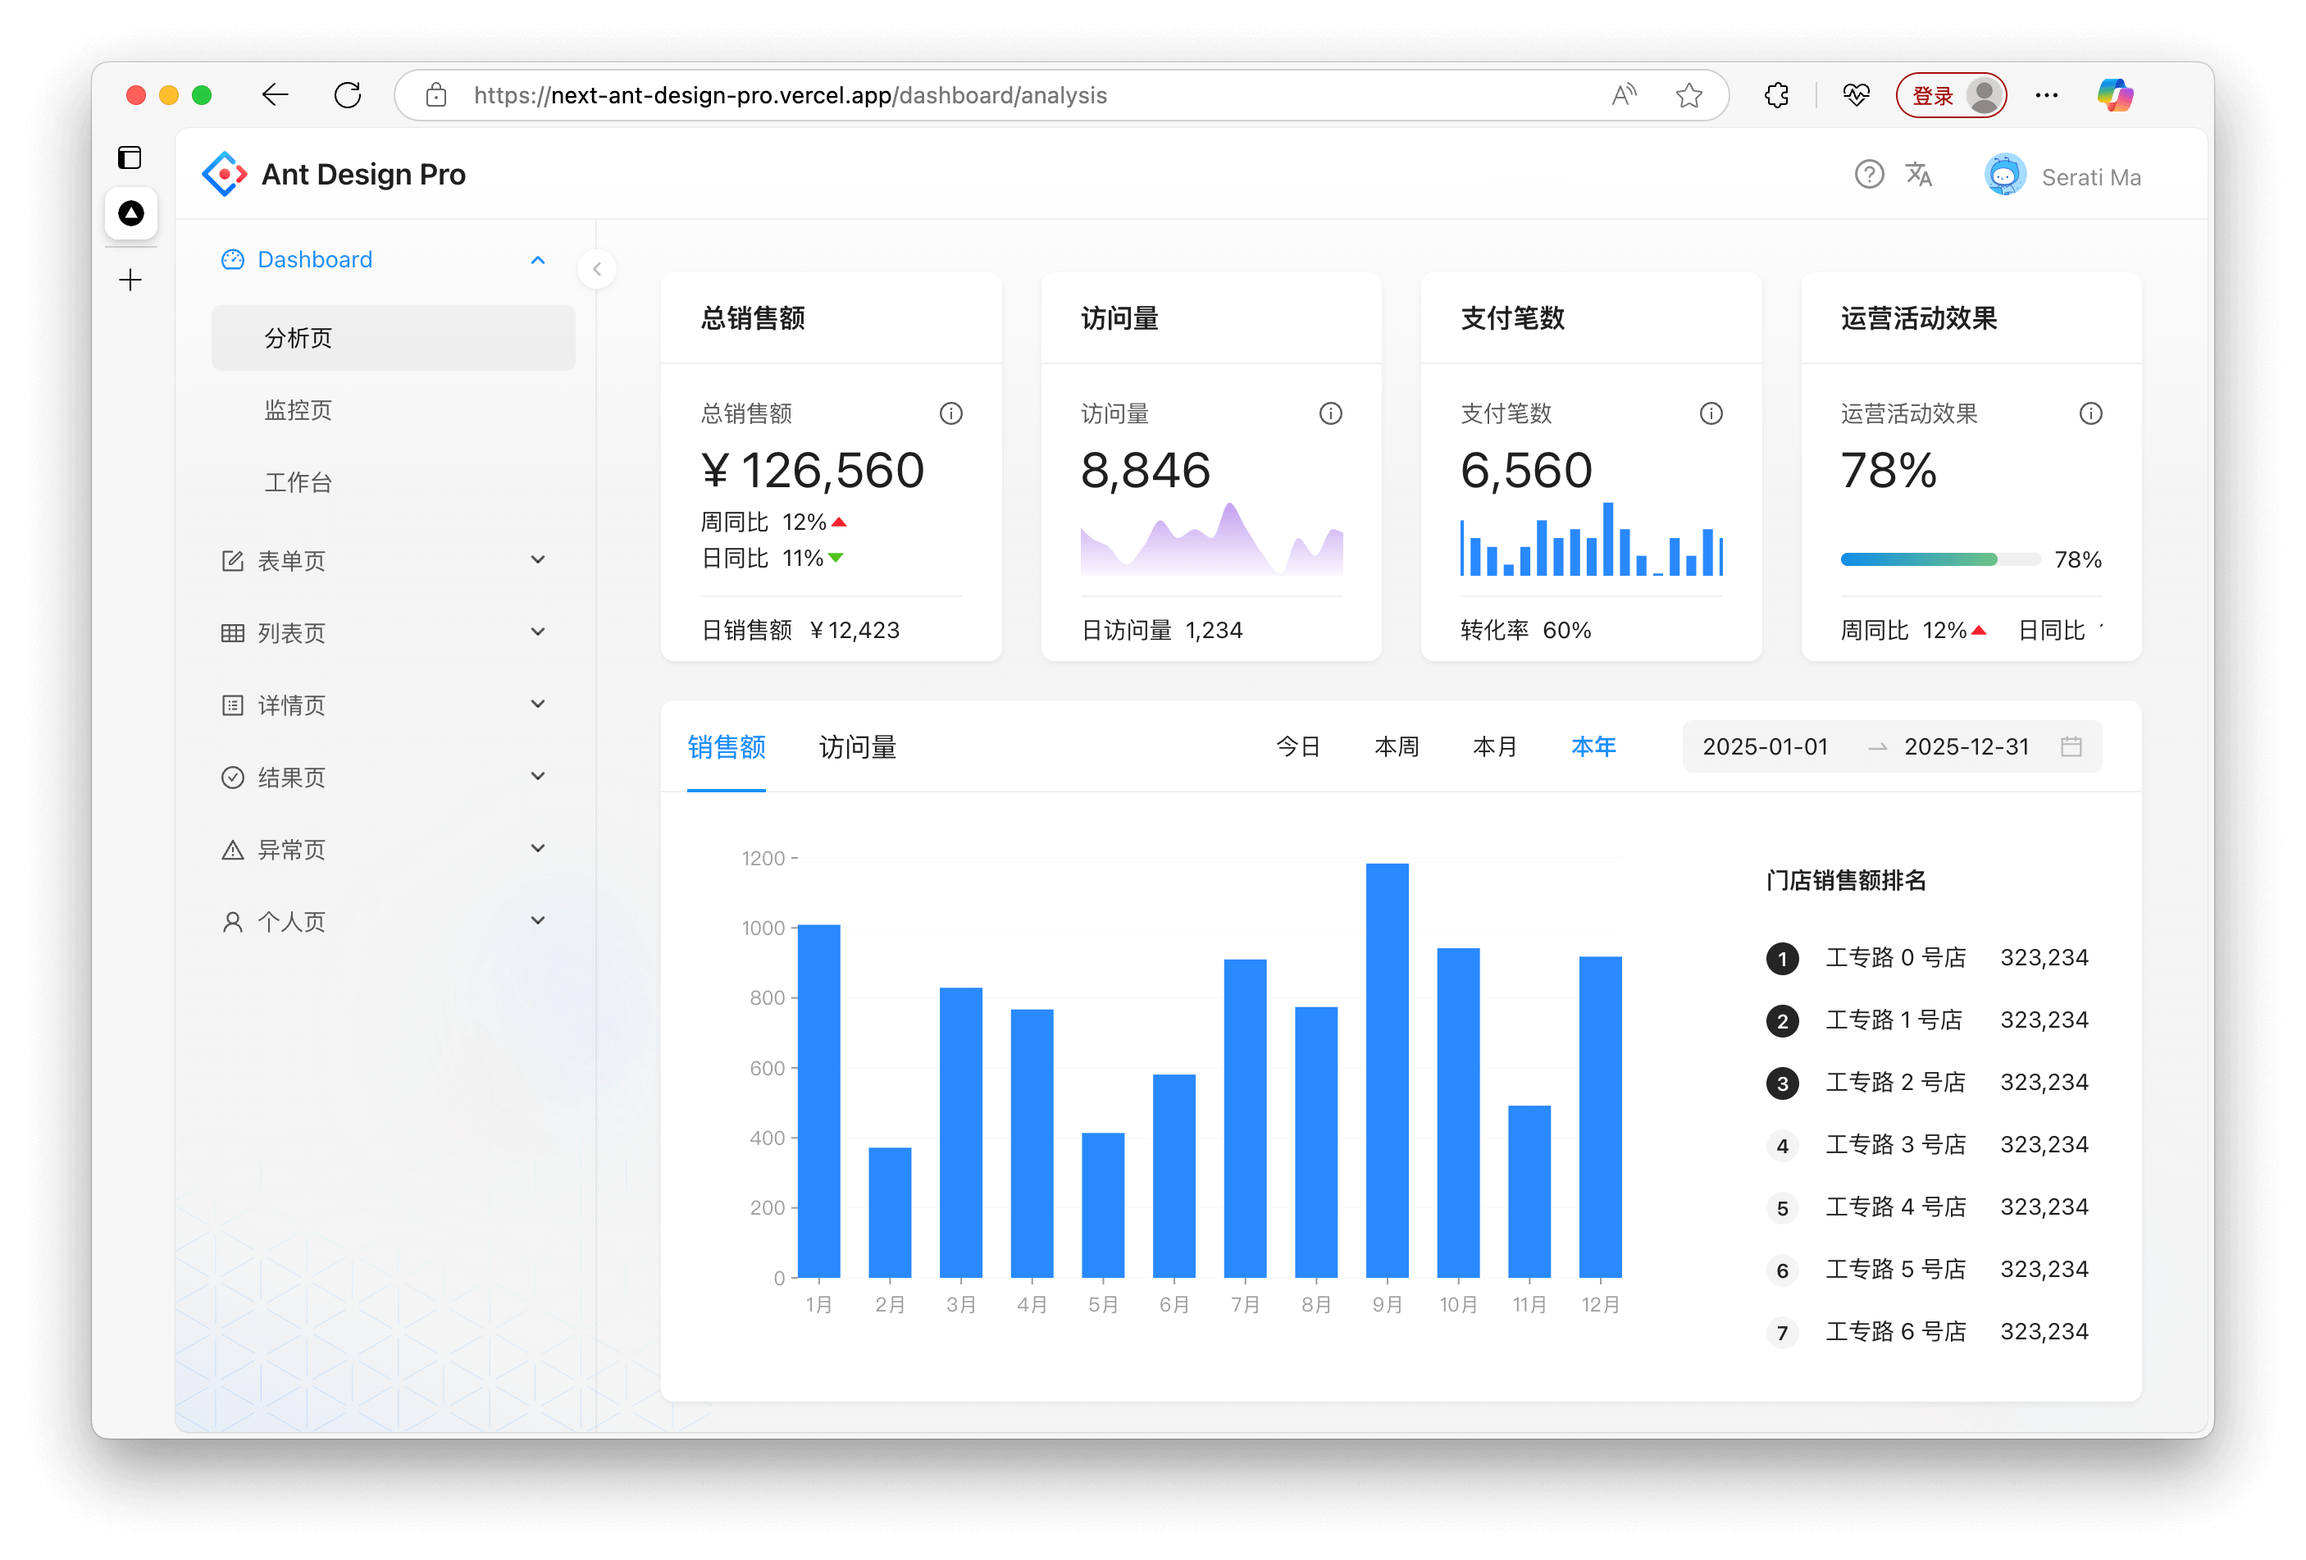
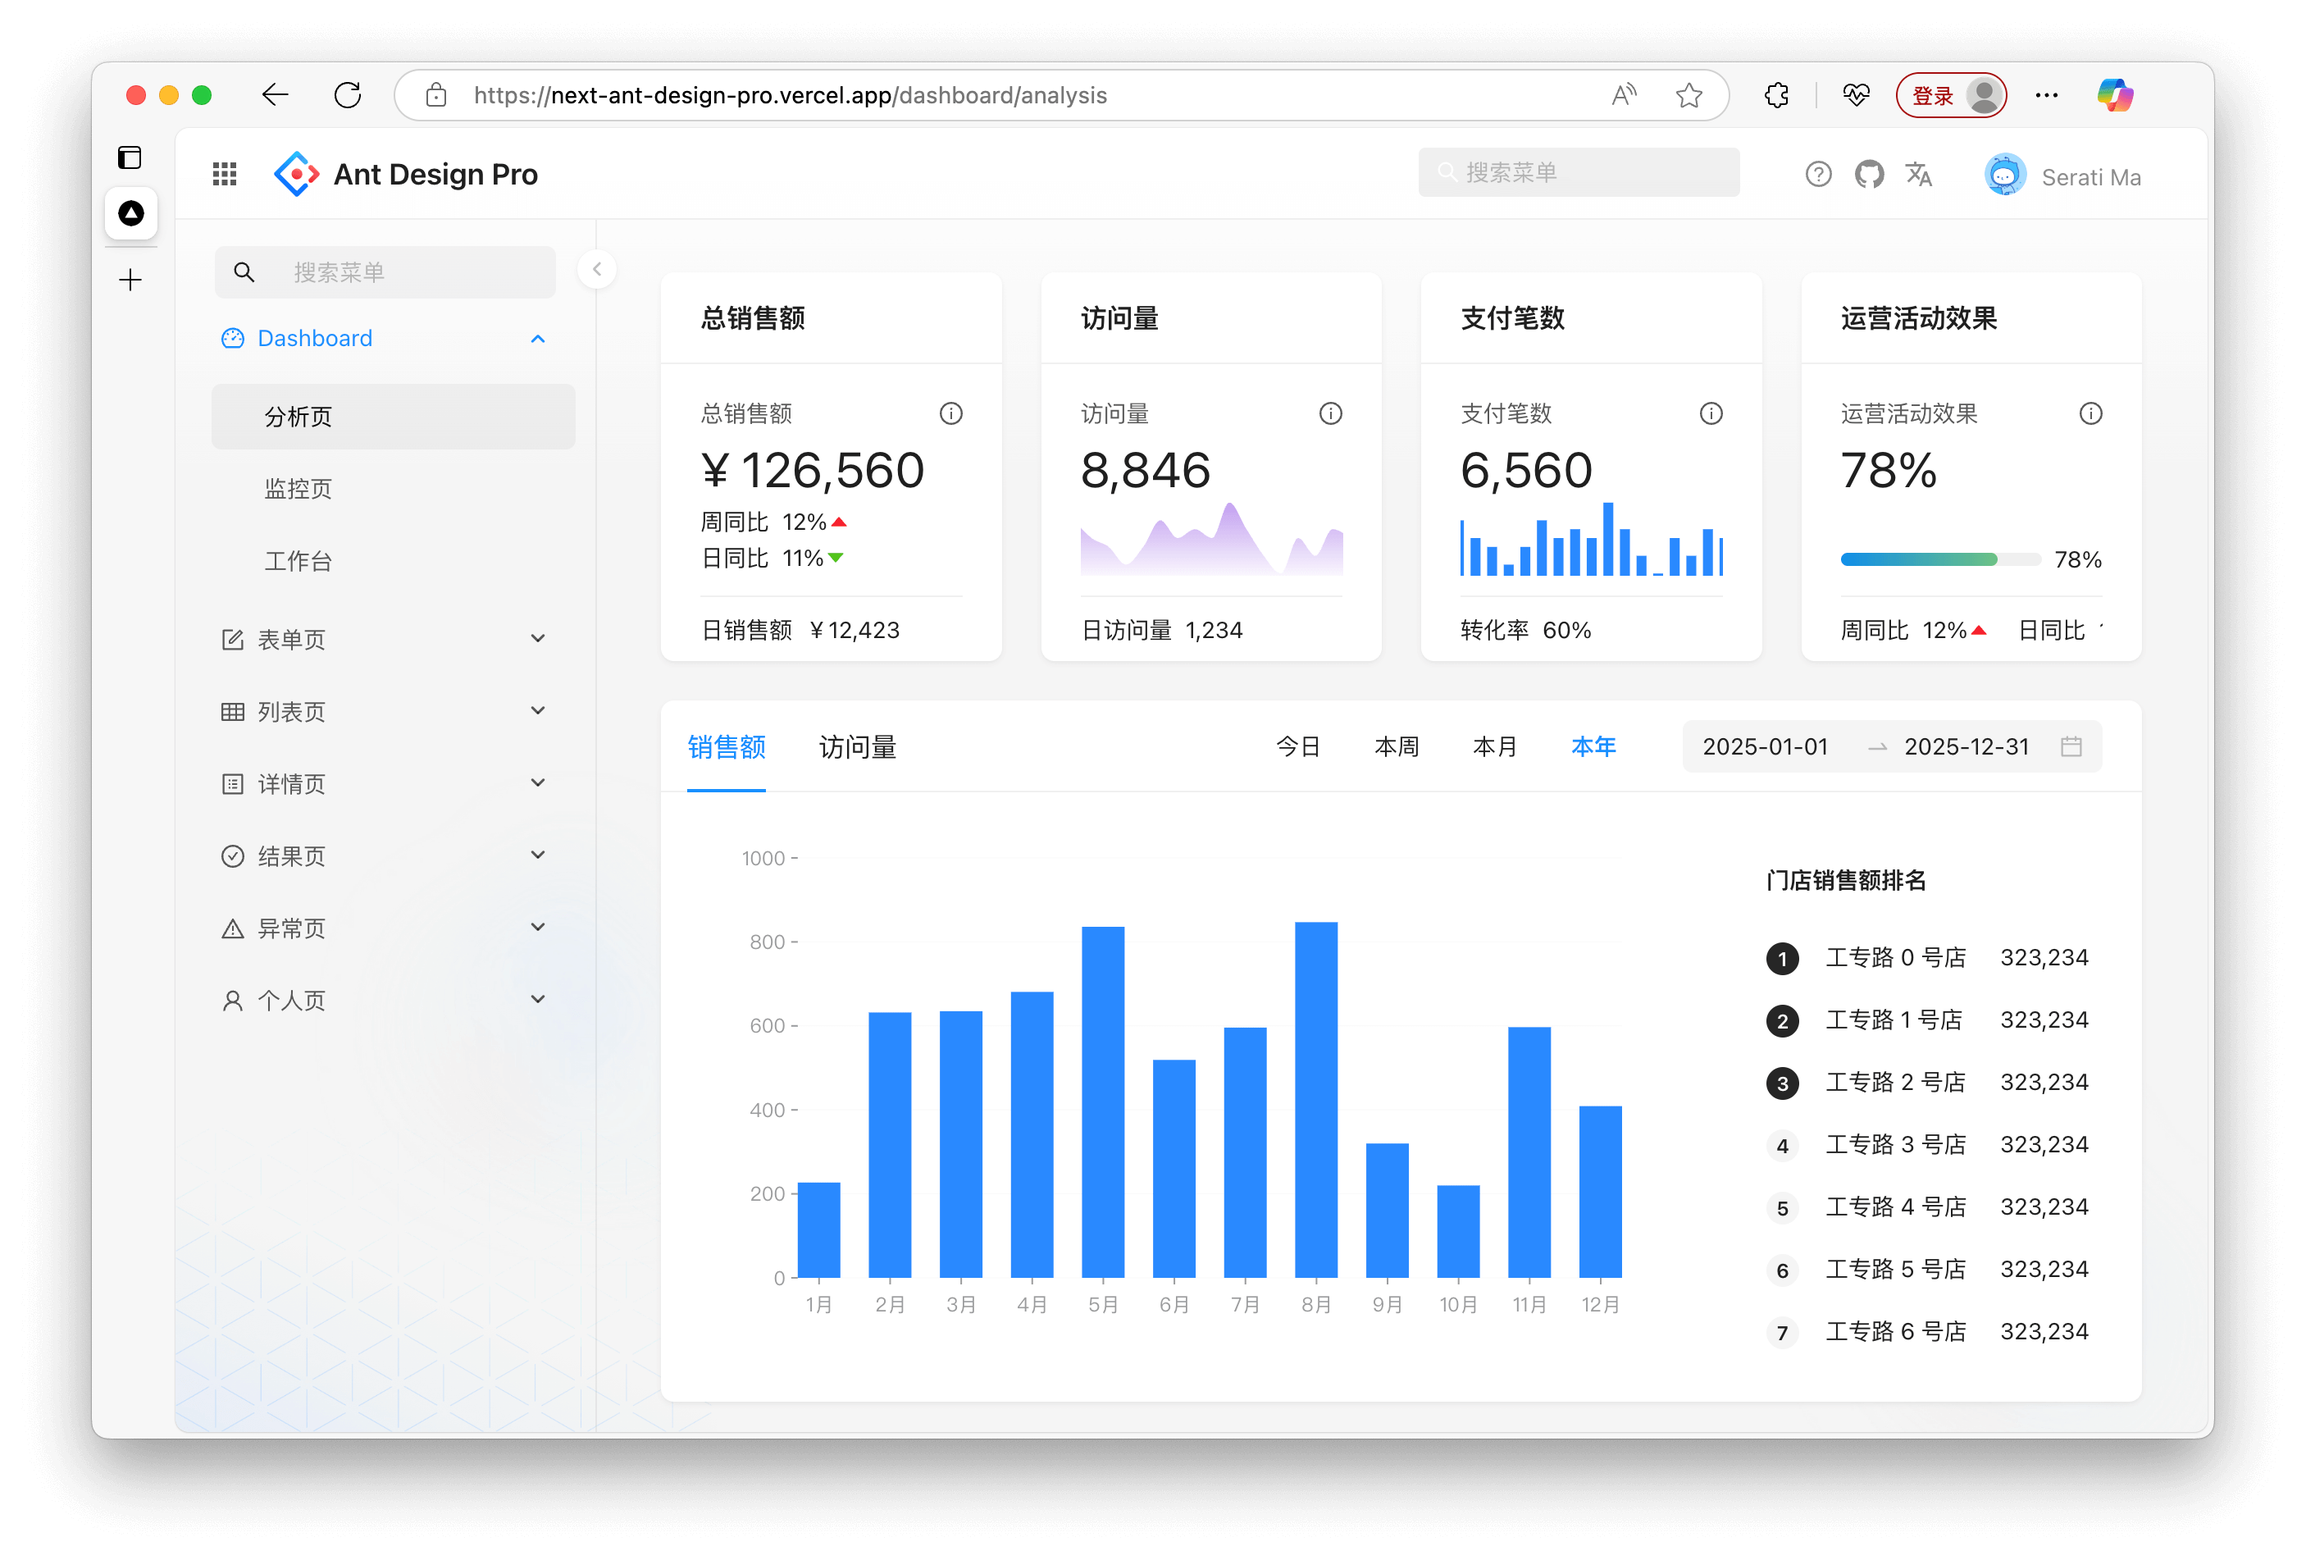
feat: 改进菜单搜索

diff --git a/apps/web/components/AppLayout/index.tsx b/apps/web/components/AppLayout/index.tsx
@@ -8,7 +8,7 @@ import { LinkOutlined, SearchOutlined } from "@ant-design/icons";
 import { AvatarDropdown, AvatarName, Footer, Question, SelectLang } from "..";
 import Link from "next/link";
 import { useAtom, useAtomValue } from "jotai";
-import { globalSettings, globalUserInfo } from "@/stores";
+import { globalSettings, globalUserInfo, openKeysAtom } from "@/stores";
 import { config, type ISettings } from "@/config";
 import { getMenuData } from "@/services/api";
 import { useIntl } from "@/lib/locales";
@@ -17,13 +17,9 @@ import menuData from "@/config/routes";
 import dynamic from "next/dynamic";
 import SearchInput from "../SearchInput";
 import { GithubLink } from "../RightContent";
-import {
-  useState,
-  type CompositionEvent,
-  type ChangeEvent,
-  useMemo,
-} from "react";
+import { useState, type CompositionEvent, type ChangeEvent } from "react";
 import { debounce } from "lodash";
+import { highlightText, defaultRenderMark } from "../highlight";
 
 const ProLayout = dynamic(
   () => import("@ant-design/pro-components").then((mod) => mod.ProLayout),
@@ -63,18 +59,18 @@ const filterByMenuData = (
     })
     .filter((item) => item) as MenuDataItem[];
 
-// const getOpenKeysByMenuData = (data: API.MenuDataItem[]): string[] =>
-//   data.reduce((acc: string[], item) => {
-//     if (item.routes && item.routes.length > 0 && item.path) {
-//       acc.push(item.path);
-//       const routes = getOpenKeysByMenuData(item.routes || []);
-//       if (routes.length > 0) {
-//         return [...acc, ...routes];
-//       }
-//       return acc;
-//     }
-//     return acc;
-//   }, []) as string[];
+const getOpenKeysByMenuData = (data: API.MenuDataItem[]): string[] =>
+  data.reduce((acc: string[], item) => {
+    if (item.routes && item.routes.length > 0 && item.path) {
+      acc.push(item.path);
+      const routes = getOpenKeysByMenuData(item.routes || []);
+      if (routes.length > 0) {
+        return [...acc, ...routes];
+      }
+      return acc;
+    }
+    return acc;
+  }, []) as string[];
 
 const useLayoutProps: RunTimeLayoutConfig = ({
   currentUser,
@@ -85,9 +81,20 @@ const useLayoutProps: RunTimeLayoutConfig = ({
   const { formatMessage } = useIntl();
   const [keyWord, setKeyWord] = useState("");
   const [isComposing, setComposing] = useState(false);
+  const [openKeys, setOpenKeys] = useState<string[]>([]);
+  const [preOpenKeys, setPreOpenKeys] = useState<string[]>([]);
+  const [allKeys, setAllKeys] = useAtom(openKeysAtom);
 
   const onMenuSearchChange = (value: string) => {
     setKeyWord(value);
+    if (value !== "") {
+      if (openKeys.length < allKeys.length) {
+        setPreOpenKeys(openKeys);
+      }
+      setOpenKeys(allKeys);
+    } else {
+      setOpenKeys(preOpenKeys);
+    }
   };
 
   const handleMenuSearchChange = (event: ChangeEvent<HTMLInputElement>) => {
@@ -110,23 +117,34 @@ const useLayoutProps: RunTimeLayoutConfig = ({
       pathname,
     },
     siderWidth: 256,
+    openKeys,
+    onOpenChange: (keys) => setOpenKeys(keys || []),
     menu: {
       locale: config.layout?.menuLocale,
       params: currentUser,
       request: async () => {
         const { data } = isDev ? await getMenuData() : { data: menuData };
+        const allKeys = getOpenKeysByMenuData(data);
+        setAllKeys(allKeys);
         return patchRoutes(data);
       },
     },
     formatMessage: formatMessage,
     menuItemRender: (menuItemProps, defaultDom) => {
+      const content =
+        keyWord !== ""
+          ? highlightText(menuItemProps.name || "", {
+              query: keyWord,
+              renderMark: defaultRenderMark,
+            })
+          : defaultDom;
       if (menuItemProps.isUrl || menuItemProps.children) {
-        return defaultDom;
+        return content;
       }
-      if (menuItemProps.path && location.pathname !== menuItemProps.path) {
+      if (menuItemProps.path && pathname !== menuItemProps.path) {
         return (
           <Link href={menuItemProps.path} target={menuItemProps.target}>
-            {defaultDom}
+            {content}
           </Link>
         );
       }

diff --git a/apps/web/components/highlight.tsx b/apps/web/components/highlight.tsx
@@ -1,0 +1,52 @@
+import React from "react";
+
+/**
+ * @description escape Regular_Expressions special_characters '^$.|*+?{\\[()'
+ */
+export function getSafeRegExpString(str: string) {
+  return str.replace(/([\^$.|*+?{\\[()])/g, "\\$1");
+}
+
+export function defaultRenderMark(match: string, index: number) {
+  return (
+    <mark key={index} className="menu-highlight-mark">
+      {match}
+    </mark>
+  );
+}
+
+export function highlightText(
+  text: string,
+  props: {
+    query?: string | string[];
+    renderMark: (patch: string, index: number) => React.ReactNode;
+  },
+) {
+  const { query, renderMark } = props;
+
+  if (!query || !text) {
+    return text;
+  }
+
+  const queries = Array.isArray(query) ? query : [query];
+
+  const regx = new RegExp(
+    queries.map((q) => getSafeRegExpString(q)).join("|"),
+    "ig",
+  );
+  const texts: React.ReactNode[] = [];
+
+  const strArr = text.split(regx);
+  const highStrArr = text.match(regx);
+
+  for (let i = 0; i < strArr.length; i++) {
+    if (strArr[i]) {
+      texts.push(strArr[i]);
+    }
+    if (highStrArr?.[i]) {
+      texts.push(renderMark(highStrArr[i], i));
+    }
+  }
+
+  return texts;
+}

diff --git a/apps/web/stores/index.ts b/apps/web/stores/index.ts
@@ -41,6 +41,8 @@ export const globalSettings = atomWithStorage(
   },
 );
 
+export const openKeysAtom = atom<string[]>([]);
+
 export const initialState = atom({
   currentUser: globalUserInfo,
   settings: globalSettings,

diff --git a/apps/web/app/globals.css b/apps/web/app/globals.css
@@ -254,3 +254,11 @@ ol {
     transform: rotate(405deg);
   }
 }
+
+/* for text hightlight */
+.menu-highlight-mark {
+  background-color: #fff6c9;
+  padding: 0 0.2em;
+  font-weight: bolder;
+  border-radius: 4px;
+}
